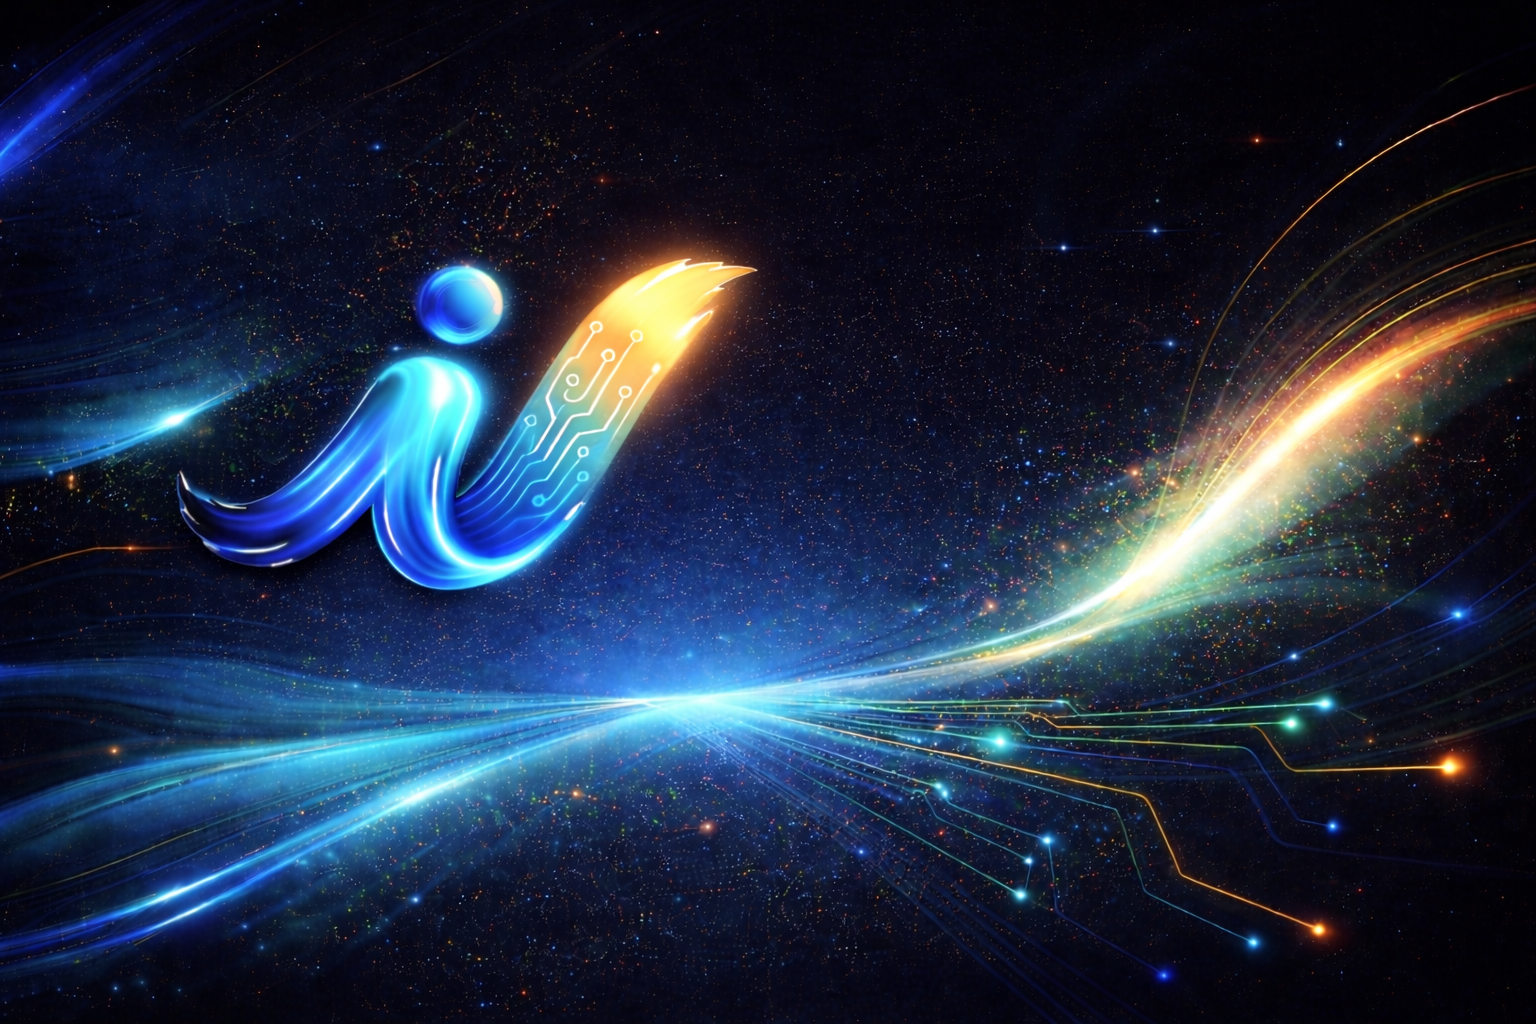
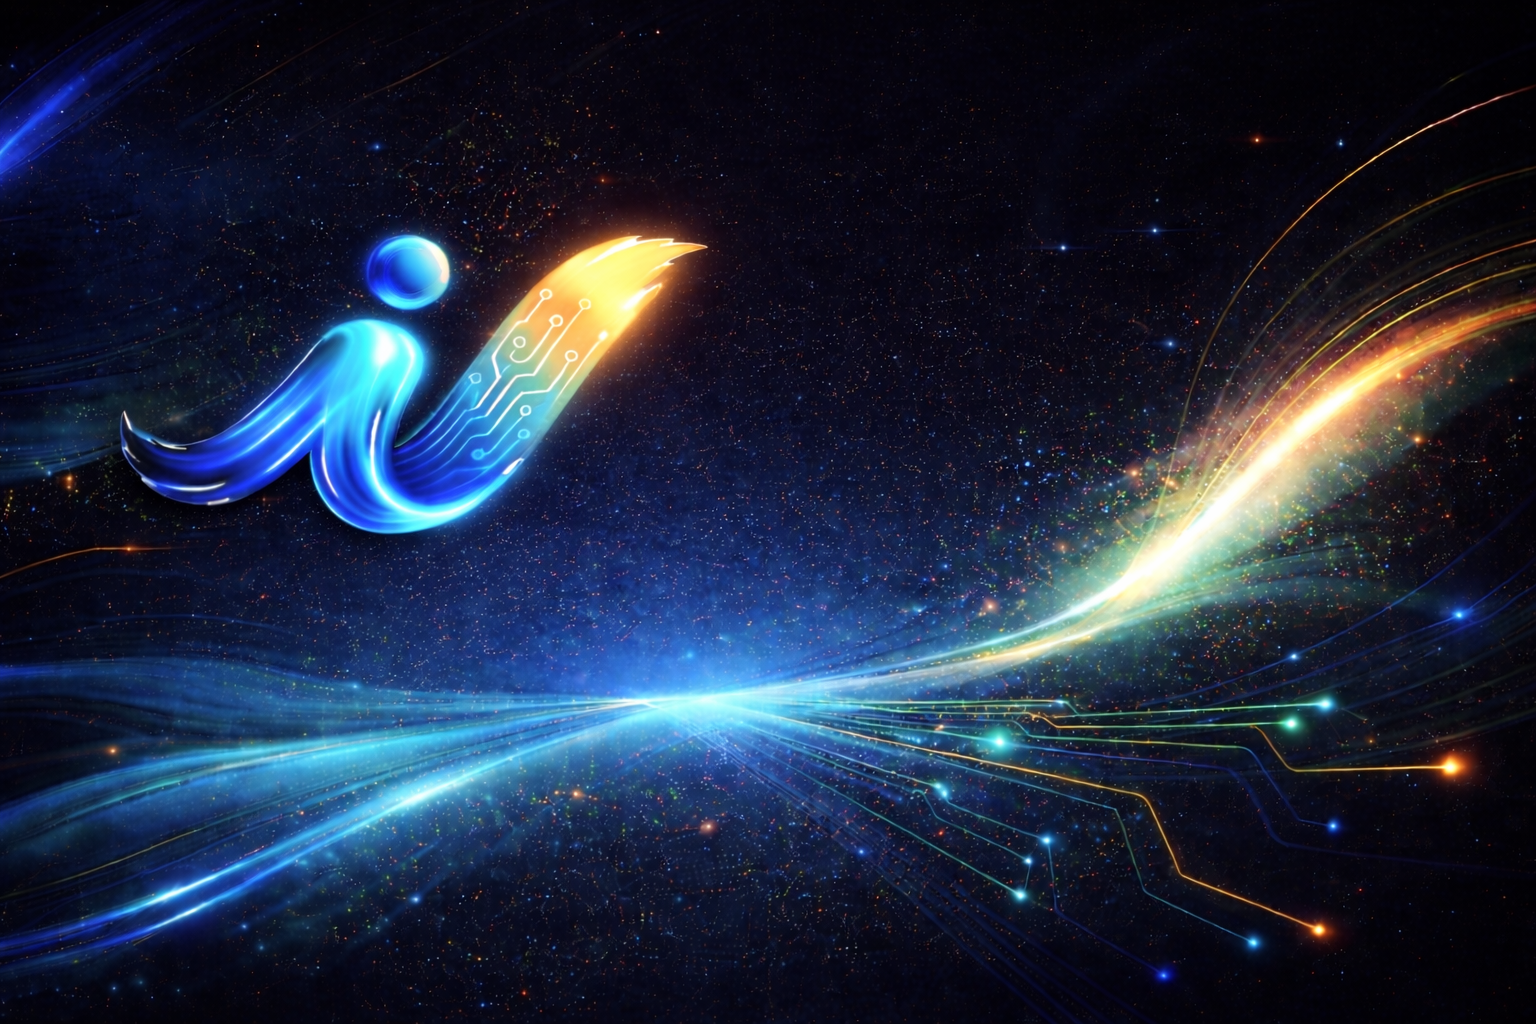
UpdateHeroSectionAgain

diff --git a/src/components/AnimateOnScroll.jsx b/src/components/AnimateOnScroll.jsx
@@ -1,4 +1,4 @@
-import React, { cloneElement, useEffect, useMemo, useState } from 'react';
+import React, { cloneElement, useEffect, useMemo, useRef, useState } from 'react';
 import { useInView } from 'react-intersection-observer';
 import 'animate.css';
 
@@ -13,6 +13,8 @@ const AnimateOnScroll = ({
   const [shouldAnimate, setShouldAnimate] = useState(false);
   const [localResetKey, setLocalResetKey] = useState(0);
   const [reduceMotion, setReduceMotion] = useState(false);
+  const [manualInView, setManualInView] = useState(false);
+  const hostRef = useRef(null);
 
   useEffect(() => {
     if (typeof window === 'undefined' || typeof window.matchMedia !== 'function') return;
@@ -34,17 +36,58 @@ const AnimateOnScroll = ({
     return () => reducedMotionQuery.removeListener(syncPreference);
   }, []);
 
+  const hasIntersectionObserver = typeof window !== 'undefined' && 'IntersectionObserver' in window;
+
   const { ref, inView } = useInView({
     triggerOnce: false,
     threshold: reduceMotion ? 0 : threshold,
     rootMargin: '0px 0px -8% 0px',
-    fallbackInView: true,
+    // If IntersectionObserver is missing (some in-app browsers), don't mark
+    // everything as "in view" on load (that makes animations run offscreen).
+    fallbackInView: false,
   });
 
   useEffect(() => {
     setLocalResetKey((prev) => prev + 1);
     setShouldAnimate(false);
+    setManualInView(false);
   }, [resetKey]);
+
+  useEffect(() => {
+    if (hasIntersectionObserver) return;
+    const el = hostRef.current;
+    if (!el) return;
+
+    let rafId = 0;
+    const check = () => {
+      rafId = 0;
+      const rect = el.getBoundingClientRect();
+      const vh = window.innerHeight || document.documentElement.clientHeight || 0;
+      if (!vh) return;
+
+      // Consider it "in view" once the top is within (1 - threshold) of the viewport.
+      const triggerLine = vh * (1 - Math.min(0.95, Math.max(0, threshold)));
+      const isVisible = rect.top <= triggerLine && rect.bottom >= 0;
+      setManualInView(isVisible);
+    };
+
+    const onEvent = () => {
+      if (rafId) return;
+      rafId = window.requestAnimationFrame(check);
+    };
+
+    check();
+    window.addEventListener('scroll', onEvent, { passive: true });
+    window.addEventListener('resize', onEvent, { passive: true });
+    window.addEventListener('orientationchange', onEvent, { passive: true });
+
+    return () => {
+      if (rafId) window.cancelAnimationFrame(rafId);
+      window.removeEventListener('scroll', onEvent);
+      window.removeEventListener('resize', onEvent);
+      window.removeEventListener('orientationchange', onEvent);
+    };
+  }, [hasIntersectionObserver, threshold]);
 
   useEffect(() => {
     if (reduceMotion) {
@@ -52,16 +95,16 @@ const AnimateOnScroll = ({
       return;
     }
 
-    if (inView) {
-      const timer = window.setTimeout(() => {
-        setShouldAnimate(true);
-      }, 40);
-      return () => window.clearTimeout(timer);
+    const effectiveInView = hasIntersectionObserver ? inView : manualInView;
+    if (effectiveInView) {
+      // Use rAF to avoid missing very short intersections on fast mobile scroll.
+      const raf = window.requestAnimationFrame(() => setShouldAnimate(true));
+      return () => window.cancelAnimationFrame(raf);
     }
 
     setShouldAnimate(false);
     return undefined;
-  }, [reduceMotion, inView, resetKey]);
+  }, [reduceMotion, inView, manualInView, resetKey, hasIntersectionObserver]);
 
   const speedClass = useMemo(
     () => ({
@@ -75,9 +118,14 @@ const AnimateOnScroll = ({
   const child = React.Children.only(children);
   const isVisible = reduceMotion || shouldAnimate;
 
+  const mergedRef = (node) => {
+    hostRef.current = node;
+    if (typeof ref === 'function') ref(node);
+  };
+
   return cloneElement(child, {
     key: localResetKey,
-    ref,
+    ref: mergedRef,
     className: `${child.props.className || ''} ${reduceMotion ? '' : 'animate__animated'} ${
       !reduceMotion && shouldAnimate ? `animate__${animation} ${speedClass}` : ''
     }`.trim(),

diff --git a/src/styles/global.css b/src/styles/global.css
@@ -342,6 +342,7 @@ html[data-theme="light"] .wciBtn {
     top: 0; /* Position from the top edge */
     width: 100%; /* Full width */
     height: 100%; /* Full height */
+    margin-top: -30px;
     --flowmap-offset-x: -0.22; /* Shift to show more of the right side of the image */
   }
   
@@ -467,11 +468,12 @@ html[data-theme="light"] .wciBtn {
   }
   .heroInner {
     width: calc(100% - 28px);
-    padding-top: 14px;
-    height: 130%;
+    /* padding-top: 14px; */
+    /* height: 130%; */
   }
   .heroTitle {
     font-size: clamp(32px, 8vw, 46px);
+    margin: 20px 0 0;
   }
   .heroSubtitle {
     font-size: 14px;
@@ -491,9 +493,9 @@ html[data-theme="light"] .wciBtn {
   .heroScrollCue {
     bottom: 20px; /* Position it within the hero section instead of below */
     position: relative; /* Change to relative positioning to keep it within hero */
-    left: 20px; /* Reset left positioning */
+    left: 10px; /* Reset left positioning */
     transform: none; /* Remove transform */
-    margin: 20px auto 0; /* Center with margin and add top spacing */
+    margin: 5px auto 0; /* Center with margin and add top spacing */
   }
 }
 
@@ -920,7 +922,7 @@ html[data-theme="light"] .wciBtn {
 
 .morph-container.centered {
   position: relative;
-  margin-top: 30px; /* Adjust spacing as needed */
+  margin-top: 39px; /* Adjust spacing as needed */
   display: flex;
   justify-content: center;
   align-items: center;
@@ -1480,6 +1482,7 @@ html[data-theme="light"] .expGridCard:hover .expListItem {
 
   .heroTitle {
     font-size: clamp(34px, 9vw, 48px);
+     margin: 30px 0 0;
   }
   .heroSubtitle {
     font-size: 14px;
@@ -1898,9 +1901,9 @@ body.mobile-menu-open {
 
 .hero-morph {
   position: absolute;
-  top: auto; /* Changed from 50% */
-  bottom: 15%; /* Positioned towards the bottom */
-  left: 85%;
+  top: 40px; /* Changed from 50% */
+   /* Positioned towards the bottom */
+  left: 80%;
   transform: translateX(-50%); /* Only translate horizontally */
   width: 100%;
   height: auto;
@@ -1960,8 +1963,8 @@ body.mobile-menu-open {
       position: absolute;
     font-size: 40px !important ; /* Smaller max size for tablets */
     letter-spacing: -0.015em; /* Slightly less negative spacing on mobile */
-  margin-left: -150px;
-  margin-top: 90px;
+  margin-left: -170px;
+  margin-top: 80px;
 
   }
   
